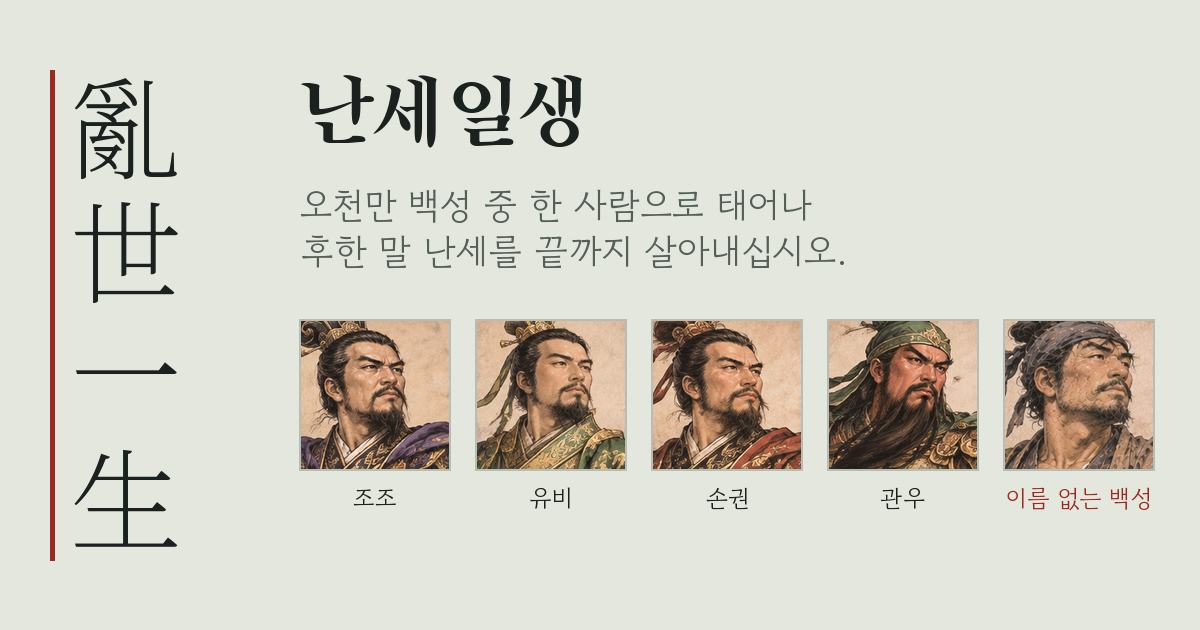
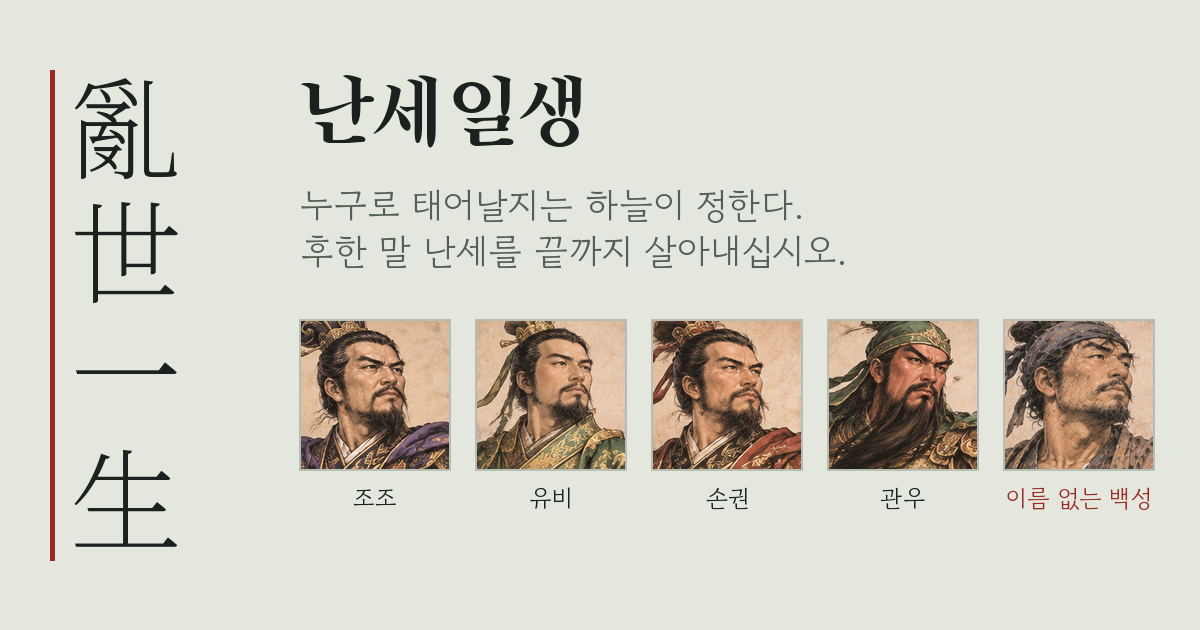
'오천만 중 한 사람' 문구 삭제
제목, 시작 화면, 공유 미리보기 제목·설명·이미지, 실존 인물 출생 문구, 최고 등급 설명에서 뺌

Claude-Session: https://claude.ai/code/session_01EddZMa1gBQEh2Gk4z8pGwG

Changed region(s): [[0.2467, 0.3016, 0.6783, 0.3619]]

diff --git a/site/index.html b/site/index.html
@@ -3,11 +3,11 @@
 <head>
 <meta charset="utf-8">
 <meta name="viewport" content="width=device-width, initial-scale=1, viewport-fit=cover">
-<meta name="description" content="후한 말 오천만 백성 중 한 사람으로 랜덤하게 태어나, 실시간 선택으로 난세를 살아내는 삼국지 인생 시뮬레이션.">
+<meta name="description" content="후한 말 이름 없는 백성으로 랜덤하게 태어나, 실시간 선택으로 난세를 살아내는 삼국지 인생 시뮬레이션.">
 <meta name="theme-color" content="#E3E7DE">
 <meta property="og:type" content="website">
-<meta property="og:title" content="난세일생 · 오천만 중 한 사람">
-<meta property="og:description" content="후한 말 오천만 백성 중 한 사람으로 랜덤하게 태어나, 실시간 선택으로 난세를 살아내는 삼국지 인생 시뮬레이션.">
+<meta property="og:title" content="난세일생">
+<meta property="og:description" content="후한 말 이름 없는 백성으로 랜덤하게 태어나, 실시간 선택으로 난세를 살아내는 삼국지 인생 시뮬레이션.">
 <meta property="og:image" content="https://nanse-ilsaeng.pages.dev/og.png">
 <meta property="og:image:width" content="1200"><meta property="og:image:height" content="630">
 <meta property="og:url" content="https://nanse-ilsaeng.pages.dev/">
@@ -271,8 +271,8 @@ button:focus-visible{outline:2px solid var(--bronze);outline-offset:2px}
     <div class="hero">
       <div class="vtitle" aria-hidden="true">亂世一生</div>
       <div class="hero-text">
-        <h1>난세일생<br>오천만 중 한 사람</h1>
-        <p class="sub">후한 말, 천하의 호적에 오른 백성은 오천육백만. 당신은 그 가운데 누구로 태어날지 고를 수 없습니다. 하늘이 정한 자리에서 난세를 끝까지 살아내십시오.</p>
+        <h1>난세일생</h1>
+        <p class="sub">후한 말, 누구로 태어날지는 고를 수 없습니다. 하늘이 정한 자리에서 난세를 끝까지 살아내십시오.</p>
         <ul class="rules">
           <li><b>年<small>연</small></b><span>해마다 시간이 흐릅니다. 황건의 난, 관도, 적벽이 다가옵니다.</span></li>
           <li><b>決<small>결</small></b><span>일이 닥치면 제한 시간 안에 고르세요. 머뭇거리면 운명이 대신 고릅니다.</span></li>
@@ -3760,7 +3760,7 @@ function newLife(){
   if(R()<.004){const L=pick(LEG);Object.assign(P,{legend:L.n,name:L.n,surname:L.s,zi:L.zi,born:L.b,year:L.b,region:L.r,gun:L.g,county:L.g,status:L.st,s:Object.assign({},L.S),traits:L.t.slice(),wealth:STATUS.find(x=>x.id===L.st).w,birthP:1/5.6e7,gifted:null});}
   addLog('','register',{html:registerHTML()});
   P.npcs=[mkNpc('동무',P.born+rint(-2,2)),mkNpc('라이벌',P.born+rint(-1,1))];
-  if(P.legend){const z=jo(P.zi,'이/가');addLog(`${P.region} ${P.gun}의 ${P.status} 집안에서 ${jo(P.name,'이/가')} 태어났다. 훗날 ${z.endsWith('가')?P.zi:z}라 불릴 아이다. 오천육백만 명 중 단 한 사람.`,'birth');return;}
+  if(P.legend){const z=jo(P.zi,'이/가');addLog(`${P.region} ${P.gun}의 ${P.status} 집안에서 ${jo(P.name,'이/가')} 태어났다. 훗날 ${z.endsWith('가')?P.zi:z}라 불릴 아이다.`,'birth');return;}
   addLog(`${rg.id}(${rg.han})의 ${st.id} 집안에서 ${jo(P.name,'이/가')} 태어났다.${gifted?` 타고난 ${STK[gifted]}(${STN[gifted]})의 재능이 있다.`:''}${P.traits.length?` 특기: ${P.traits.join(', ')}.`:''}`,'birth');
 }
 
@@ -3983,7 +3983,7 @@ function grade(odds){
   if(odds<2e4)return['稀','드문 삶','고을에 한둘쯤 있을 법한 한평생'];
   if(odds<2e6)return['奇','기이한 삶','군(郡) 하나에 한 명 나올까 말까'];
   if(odds<5.6e7)return['傳','전(傳)에 남을 삶','천하를 통틀어 손꼽힐 한평생'];
-  return['列','열전(列傳)의 삶','오천만 명 가운데서도 다시 나오기 어려운 한평생'];
+  return['列','열전(列傳)의 삶','사서(史書)에 이름을 남길 한평생'];
 }
 function finish(){
   if(!P||P.alive)return;

diff --git a/src/nanse.html b/src/nanse.html
@@ -252,8 +252,8 @@ button:focus-visible{outline:2px solid var(--bronze);outline-offset:2px}
     <div class="hero">
       <div class="vtitle" aria-hidden="true">亂世一生</div>
       <div class="hero-text">
-        <h1>난세일생<br>오천만 중 한 사람</h1>
-        <p class="sub">후한 말, 천하의 호적에 오른 백성은 오천육백만. 당신은 그 가운데 누구로 태어날지 고를 수 없습니다. 하늘이 정한 자리에서 난세를 끝까지 살아내십시오.</p>
+        <h1>난세일생</h1>
+        <p class="sub">후한 말, 누구로 태어날지는 고를 수 없습니다. 하늘이 정한 자리에서 난세를 끝까지 살아내십시오.</p>
         <ul class="rules">
           <li><b>年<small>연</small></b><span>해마다 시간이 흐릅니다. 황건의 난, 관도, 적벽이 다가옵니다.</span></li>
           <li><b>決<small>결</small></b><span>일이 닥치면 제한 시간 안에 고르세요. 머뭇거리면 운명이 대신 고릅니다.</span></li>
@@ -3741,7 +3741,7 @@ function newLife(){
   if(R()<.004){const L=pick(LEG);Object.assign(P,{legend:L.n,name:L.n,surname:L.s,zi:L.zi,born:L.b,year:L.b,region:L.r,gun:L.g,county:L.g,status:L.st,s:Object.assign({},L.S),traits:L.t.slice(),wealth:STATUS.find(x=>x.id===L.st).w,birthP:1/5.6e7,gifted:null});}
   addLog('','register',{html:registerHTML()});
   P.npcs=[mkNpc('동무',P.born+rint(-2,2)),mkNpc('라이벌',P.born+rint(-1,1))];
-  if(P.legend){const z=jo(P.zi,'이/가');addLog(`${P.region} ${P.gun}의 ${P.status} 집안에서 ${jo(P.name,'이/가')} 태어났다. 훗날 ${z.endsWith('가')?P.zi:z}라 불릴 아이다. 오천육백만 명 중 단 한 사람.`,'birth');return;}
+  if(P.legend){const z=jo(P.zi,'이/가');addLog(`${P.region} ${P.gun}의 ${P.status} 집안에서 ${jo(P.name,'이/가')} 태어났다. 훗날 ${z.endsWith('가')?P.zi:z}라 불릴 아이다.`,'birth');return;}
   addLog(`${rg.id}(${rg.han})의 ${st.id} 집안에서 ${jo(P.name,'이/가')} 태어났다.${gifted?` 타고난 ${STK[gifted]}(${STN[gifted]})의 재능이 있다.`:''}${P.traits.length?` 특기: ${P.traits.join(', ')}.`:''}`,'birth');
 }
 
@@ -3964,7 +3964,7 @@ function grade(odds){
   if(odds<2e4)return['稀','드문 삶','고을에 한둘쯤 있을 법한 한평생'];
   if(odds<2e6)return['奇','기이한 삶','군(郡) 하나에 한 명 나올까 말까'];
   if(odds<5.6e7)return['傳','전(傳)에 남을 삶','천하를 통틀어 손꼽힐 한평생'];
-  return['列','열전(列傳)의 삶','오천만 명 가운데서도 다시 나오기 어려운 한평생'];
+  return['列','열전(列傳)의 삶','사서(史書)에 이름을 남길 한평생'];
 }
 function finish(){
   if(!P||P.alive)return;

diff --git a/tools/build.py b/tools/build.py
@@ -11,7 +11,7 @@ head=head.replace('<meta name="claude:viewport-fit-sides" content="cover">\n',''
 body=re.sub(r"window\.__nanse=\{.*?\};\n","",body)
 body=body.replace("const SHARE_URL='';",f"const SHARE_URL='{BASE+'/' if BASE else ''}';")
 img=(BASE+'/og.png') if BASE else 'og.png'
-desc='후한 말 오천만 백성 중 한 사람으로 랜덤하게 태어나, 실시간 선택으로 난세를 살아내는 삼국지 인생 시뮬레이션.'
+desc='후한 말 이름 없는 백성으로 랜덤하게 태어나, 실시간 선택으로 난세를 살아내는 삼국지 인생 시뮬레이션.'
 meta=f'''<!doctype html>
 <html lang="ko">
 <head>
@@ -20,7 +20,7 @@ meta=f'''<!doctype html>
 <meta name="description" content="{desc}">
 <meta name="theme-color" content="#E3E7DE">
 <meta property="og:type" content="website">
-<meta property="og:title" content="난세일생 · 오천만 중 한 사람">
+<meta property="og:title" content="난세일생">
 <meta property="og:description" content="{desc}">
 <meta property="og:image" content="{img}">
 <meta property="og:image:width" content="1200"><meta property="og:image:height" content="630">

diff --git a/README.md b/README.md
@@ -1,6 +1,6 @@
 # 난세일생 亂世一生
 
-후한 말(150~280년), 오천만 백성 가운데 한 사람으로 무작위로 태어나 실시간 선택으로 난세를 살아내는 삼국지 인생 시뮬레이션 웹 게임.
+후한 말(150~280년), 이름 없는 백성으로 무작위로 태어나 실시간 선택으로 난세를 살아내는 삼국지 인생 시뮬레이션 웹 게임.
 
 ## 구조
 - `src/nanse.html` 게임 원본 (HTML·CSS·JS 한 파일)
